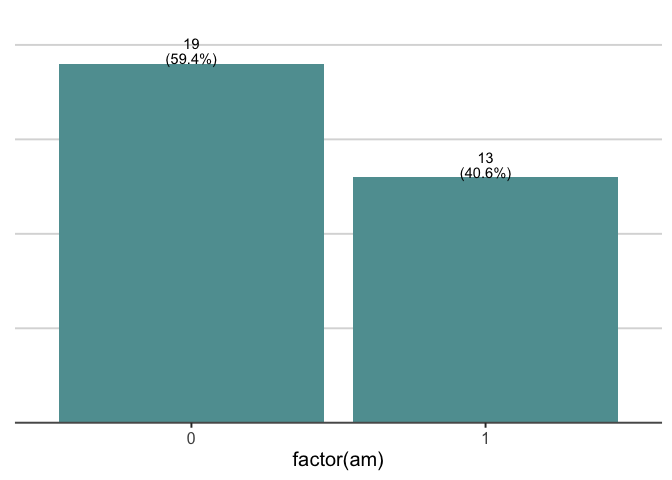
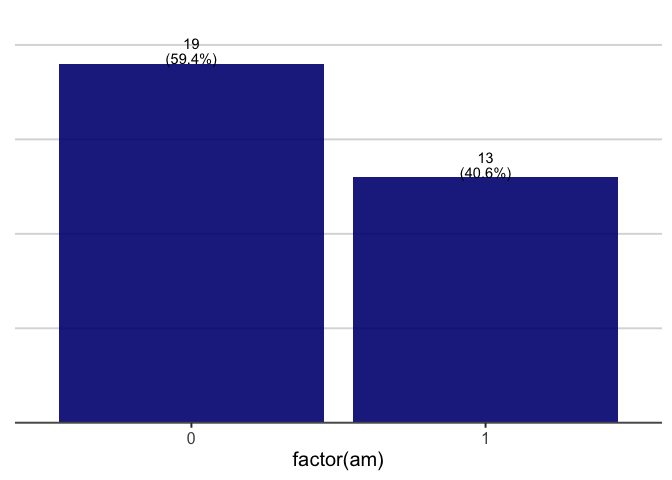
adding a few issues at end of readme

diff --git a/README.md b/README.md
@@ -1,5 +1,6 @@
 
-  - [ggdirect (probably to ggbarlabs)](#ggdirect-probably-to-ggbarlabs)
+  - [ggdirect (probably moving to
+    ggbarlabs)](#ggdirect-probably-moving-to-ggbarlabs)
   - [Problem:](#problem)
       - [bar charts are ubiquitous and can quickly communicate
         information.](#bar-charts-are-ubiquitous-and-can-quickly-communicate-information)
@@ -14,18 +15,25 @@
           - [Try it out](#try-it-out)
           - [geom\_text\_count\_percent](#geom_text_count_percent)
           - [Try it out](#try-it-out-1)
-  - [Furthermore, a different set of thematic defaults make sense for
-    labeled bar
-    charts.](#furthermore-a-different-set-of-thematic-defaults-make-sense-for-labeled-bar-charts)
+  - [Furthermore, a different set of thematic and scale defaults make
+    sense for labeled bar
+    charts](#furthermore-a-different-set-of-thematic-and-scale-defaults-make-sense-for-labeled-bar-charts)
   - [lets put all of this in
     `ggbarlabs()`](#lets-put-all-of-this-in-ggbarlabs)
-      - [Notes:](#notes)
+      - [try it out](#try-it-out-2)
+      - [Issues](#issues)
+          - [vjust may give us better results than
+            nudge\_y…](#vjust-may-give-us-better-results-than-nudge_y)
+          - [move ggbarlabs()](#move-ggbarlabs)
+          - [percents is calculated within panel. We might want to
+            specify the ‘whole’ from which percentage is
+            calculated.](#percents-is-calculated-within-panel-we-might-want-to-specify-the-whole-from-which-percentage-is-calculated)
 
 <!-- README.md is generated from README.Rmd. Please edit that file -->
 
 <img src="man/figures/README-unnamed-chunk-2-1.png" width="50%" />
 
-# ggdirect (probably to ggbarlabs)
+# ggdirect (probably moving to ggbarlabs)
 
 <!-- badges: start -->
 
@@ -260,7 +268,7 @@ last_plot() +
 
 <img src="man/figures/README-unnamed-chunk-10-2.png" width="50%" />
 
-# Furthermore, a different set of thematic defaults make sense for labeled bar charts.
+# Furthermore, a different set of thematic and scale defaults make sense for labeled bar charts
 
 ``` r
 ggplot(mtcars) +
@@ -301,15 +309,32 @@ ggbarlabs <- function(data = NULL, ...){
 }
 ```
 
+## try it out
+
 ``` r
 ggbarlabs(mtcars) + 
   aes(x = factor(am)) + 
-  geom_bar(fill = "cadetblue") + 
+  geom_bar(fill = alpha("navy", .9)) + 
   geom_text_count_percent()
 ```
 
 <img src="man/figures/README-unnamed-chunk-13-1.png" width="50%" />
 
-## Notes:
+``` r
 
-  - vjust may give us better results than nudge\_y…
+
+ggbarlabs(mtcars) + 
+  aes(x = factor(am), fill = factor(cyl)) + 
+  geom_bar(position = "dodge") + 
+  geom_text_count_percent()
+```
+
+<img src="man/figures/README-unnamed-chunk-13-2.png" width="50%" />
+
+## Issues
+
+### vjust may give us better results than nudge\_y…
+
+### move ggbarlabs()
+
+### percents is calculated within panel. We might want to specify the ‘whole’ from which percentage is calculated.
